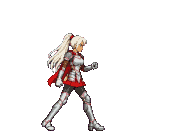
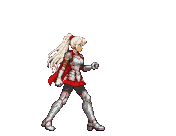
기사 걷기 다리 다시 그림(v3: 다리가 얇고 회색 뼈처럼 보이던 문제 수정) + 보폭 재측정(남 80, 여 95)

Changed region(s): [[0.2273, 0.2353, 0.5966, 0.9706], [0.3409, 0.2941, 0.3693, 0.3235], [0.3125, 0.3235, 0.3409, 0.3529]]

diff --git a/js/config.js b/js/config.js
@@ -39,7 +39,7 @@
   var MOVES = {
     // 남자: 힘 있는 검술. 1타 대각선 내려베기 → 2타 아래에서 위로 되받아 베기 → 3타 크게 들어 내리찍기
     male: {
-      stride: 112, knightStride: 84, attack1Prefix: 'attack_', attack1Count: 5, attack2Count: 5, attack3Count: 6,
+      stride: 112, knightStride: 80, attack1Prefix: 'attack_', attack1Count: 5, attack2Count: 5, attack3Count: 6,
       combo: [
         { anim: 'attack1', f: [0, 1, 2, 3, 4], d: [40, 70, 35, 90, 90], active: [2, 3], cancel: 3, lunge: 4,
           reach: { x0: 8, x1: 92, yTop: -100, yBot: -18 },
@@ -57,7 +57,7 @@
     },
     // 여자: 빠르고 가볍고 우아한 검술. 1타 앞으로 찌르기 → 2타 한 바퀴 돌며 가로 베기 → 3타 낮게 파고들며 X자 베기(두 번 판정)
     female: {
-      stride: 96, knightStride: 100, attack1Prefix: 'attack1_', attack1Count: 4, attack2Count: 5, attack3Count: 6,
+      stride: 96, knightStride: 95, attack1Prefix: 'attack1_', attack1Count: 4, attack2Count: 5, attack3Count: 6,
       combo: [
         { anim: 'attack1', f: [0, 1, 2, 3], d: [45, 40, 80, 70], active: [1, 2], cancel: 3, lunge: 6,
           reach: { x0: 20, x1: 108, yTop: -82, yBot: -44 },
@@ -229,7 +229,7 @@
         idle:    { frames: seq(p + 'idle_', 4),   fps: 6,  loop: true },
         // 걷기: 시간 대신 「걸은 거리」로 그림을 넘긴다. stride = 8장 한 바퀴(두 걸음) 동안 가는 도트 수.
         //   그림 속 보폭에 맞춘 값이라 발이 바닥에서 미끄러지지 않는다. 캐릭터마다 보폭이 달라 MOVES 에 따로 둔다
-        //   견습 남 112, 여 96 / 기사 옷은 걷기 그림을 따로 그려서(2026-11-03, 보폭 짧은 갑옷 걸음) knightStride 남 84, 여 100
+        //   견습 남 112, 여 96 / 기사 옷은 걷기 그림을 따로 그려서(2026-11-03, 보폭 짧은 갑옷 걸음) knightStride 남 80, 여 95 (2026-11-03 v3 다리 수정 후 재측정)
         //   (그림 속 디딘 발이 한 장마다 뒤로 가는 거리 × 8 을 잰 값. 좌우 104도트/초에서 견습 약 7.4 / 8.7장/초, 기사 약 9.9 / 8.3장/초).
         //   depthStrideMul = 위아래(안쪽) 이동일 때 거리를 이만큼 크게 쳐서, 느린 위아래 이동에도 다리가 자연스럽게 움직이게.
         walk:    { frames: seq(p + 'walk_', 8),   fps: 12, loop: true, stride: outfit === 'knight' ? M.knightStride : M.stride, depthStrideMul: 1.6 },
